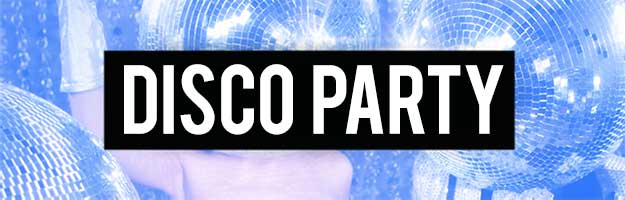
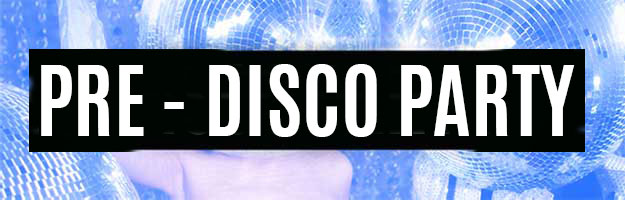
002120180511

Changed region(s): [[0.0304, 0.24, 0.9424, 0.78]]

diff --git a/www/js/index.js b/www/js/index.js
@@ -4272,7 +4272,7 @@ var app = {
 		  document.ontouchmove = function(e){ e.preventDefault(); }
 		  
 		  localStorage.setItem("cartellaimg","disco")
-		  localStorage.setItem("tipofesta","DISCO PARTY")
+		  localStorage.setItem("tipofesta","PRE - DISCO PARTY")
 		  
 		  $("#fotoflyer").html("<img id='disco1' src='flyer/verticali/disco/disco1.jpg' width='105px' border='0' bordercolor='red'>&nbsp;&nbsp;<img id='disco2' src='flyer/verticali/disco/disco2.jpg' width='105px' border='0'>&nbsp;&nbsp;<img id='disco3' src='flyer/verticali/disco/disco3.jpg' width='105px' border='0'>");
 		  
